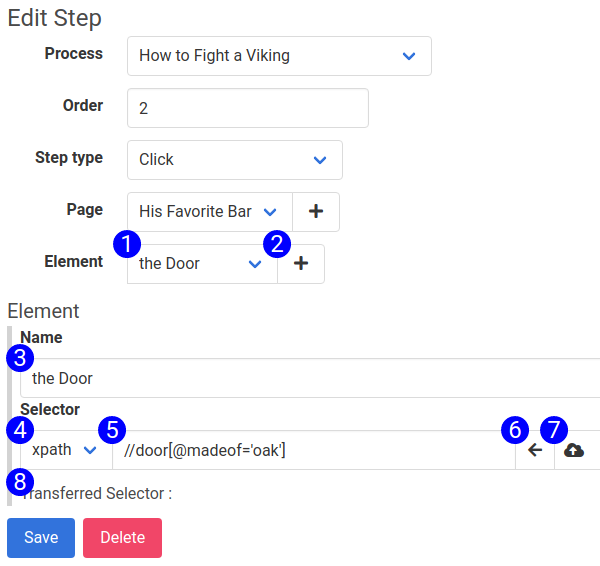
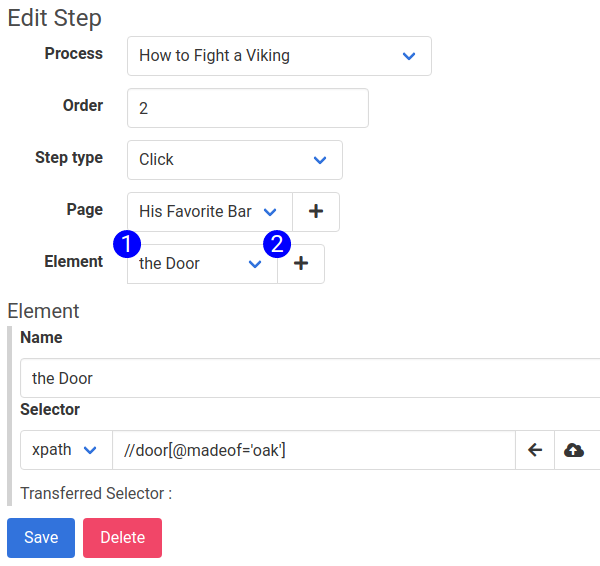
Docs

diff --git a/docs/step_form_click.md b/docs/step_form_click.md
@@ -6,12 +6,8 @@ Selecting Click from the Step Type select input will cause the Click form to ren
 
 1. **Element Selector** - Picks the element to associated with the step. UserDocs will locate the element with the strategy and selector specified on the object, and simulate a click on the object.
 2. **Create Element** - Creates an empty element object, clearing the fields in the Element subform.
-3. **Name** - A descriptive name of the element. Will be used in the UI, and in automatic naming schemes for the step.
-4. **Strategy** - The strategy used to apply the selector. UserDocs supports CSS and xpath selectors.
-5. **Selector** - The selector that UserDocs will use to locate the element.
-6. **Transfer Selector** - This button will transfer the selector, automatically sent over from the automated browser from the 'Transferred Selector' element (designated by 8) into the selector field.
-7. **Test Selector** - This button will highlight the selector in the automated browser window, to help you test your selector.
-8. **Transferred Selector** - Displays the selector transferred over from the automated browser for review before transferring into the field.
+
+For more information on the Element Subform, see [this related article](element_subform.md)
 
 > The Transfer Selector and Test Selector features are currently offline, and will be re-enabled in the near future.
 

diff --git a/docs/element_reference.md b/docs/element_reference.md
@@ -1,0 +1,10 @@
+# Elements
+
+Elements are the data object in UserDocs that represents a single HTML element on a page. Elements belong to pages, so that you can manage all the elements that participate in your automation together.
+
+UserDocs identifies elements with a strategy and a selector. UserDocs supports css and xpath strategies. Currently, you must manually write and enter your css selectors. The UserDocs team will release additional tools in the near future that make it easier to automatically calculate selectors for you.
+
+It is recommended that you learn about writing good css and xpath selectors, preferrably using unique identifiers like names and id's. Writing durable selectors will improve the reliability of your automation, and the quality of your annotations. Frequently, automatically calculated selectors leave something to be desired, and must be modified to be durable.
+
+It is recommended in the long term, that this automation be applied in conjunction with Engineering support. Having a front end engineer who is willing and resourced to augment the DOM will improve the testeability, and automateability of the page. The job of automating this function will be easier, and the quality of it will be better.
+

diff --git a/docs/element_subform.md b/docs/element_subform.md
@@ -1,0 +1,12 @@
+## Element Subform
+
+The Element subform is displayed on the step form for any step type that references elements (such as click or fill field):
+
+![Element Form Reference](images/element_subform_reference.png)
+
+1. **Name** - A descriptive name of the element. Will be used in the UI, and in automatic naming schemes for the step.
+2. **Strategy** - The strategy used to apply the selector. UserDocs supports CSS and xpath selectors.
+3. **Selector** - The selector that UserDocs will use to locate the element.
+4. **Transfer Selector** - This button will transfer the selector, automatically sent over from the automated browser from the 'Transferred Selector' element (designated by 8) into the selector field.
+5. **Test Selector** - This button will highlight the selector in the automated browser window, to help you test your selector.
+6. **Transferred Selector** - Displays the selector transferred over from the automated browser for review before transferring into the field.
